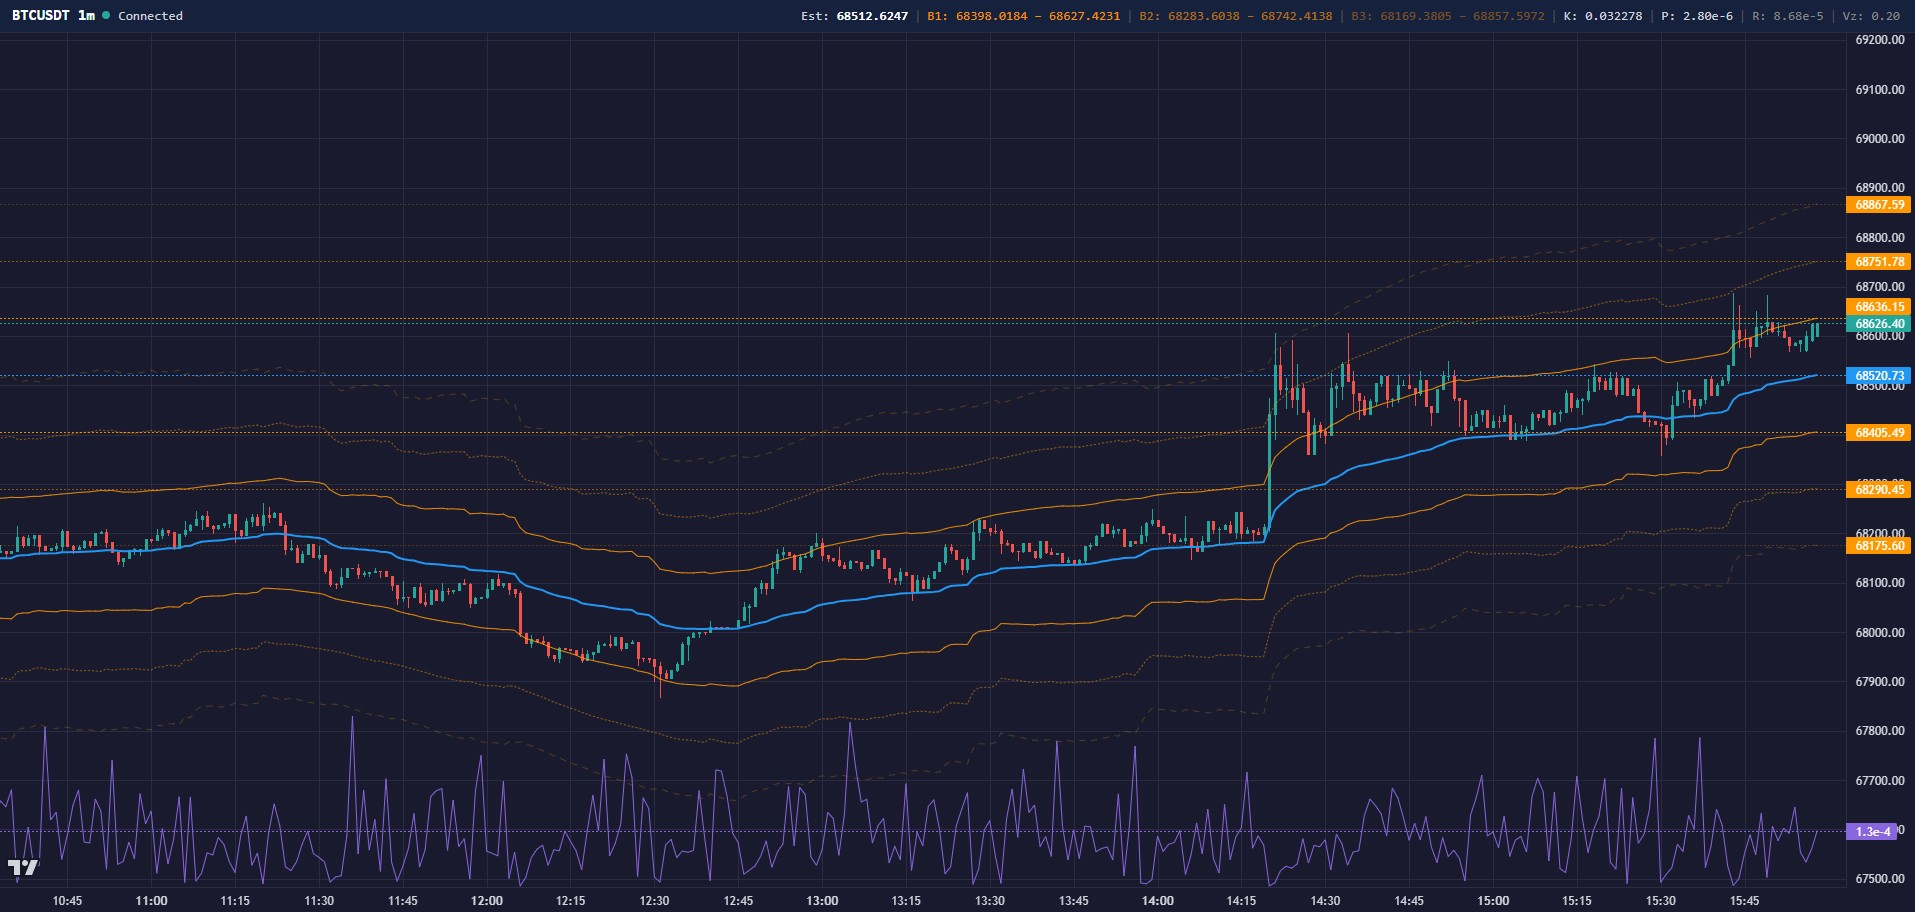
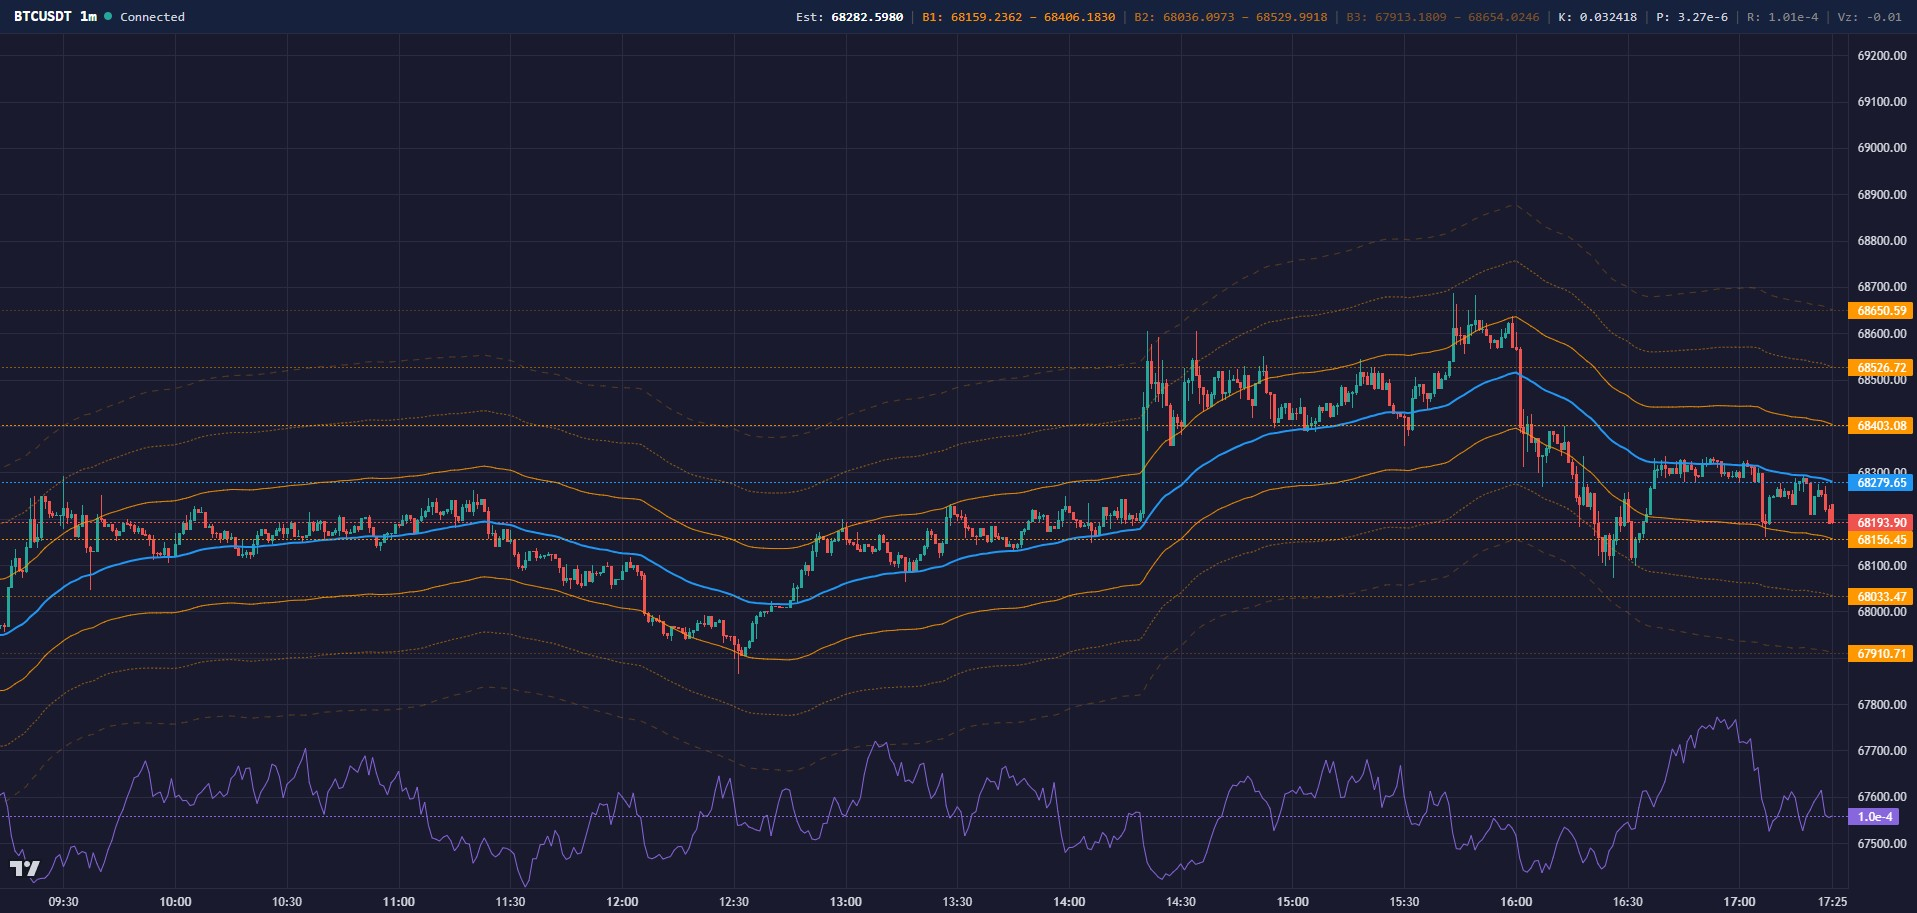
smooth volume screen

diff --git a/backend/config.py b/backend/config.py
@@ -21,9 +21,9 @@ class Settings(BaseSettings):
     VOL_WINDOW: int = 21           # EMA ablak a log-volume statisztikához
     VOL_BETA: float = 0.7          # Moduláció erőssége (0 = kikapcsolt)
     VOL_Z_MAX: float = 3.0         # Z-score clamp határ
-    R_MIN_MULT: float = 0.2        # R_t alsó korlát szorzó
-    R_MAX_MULT: float = 5.0        # R_t felső korlát szorzó
-    VOL_SMOOTH: int = 10           # Z-score EMA simítás periódusa (1 = nincs simítás)
+    R_MIN_MULT: float = 0.1        # R_t alsó korlát szorzó
+    R_MAX_MULT: float = 10.0        # R_t felső korlát szorzó
+    VOL_SMOOTH: int = 25           # Z-score EMA simítás periódusa (1 = nincs simítás)
     VOL_EPS: float = 1e-12         # Numerikus védelem (variancia minimum)
 
     # Server
